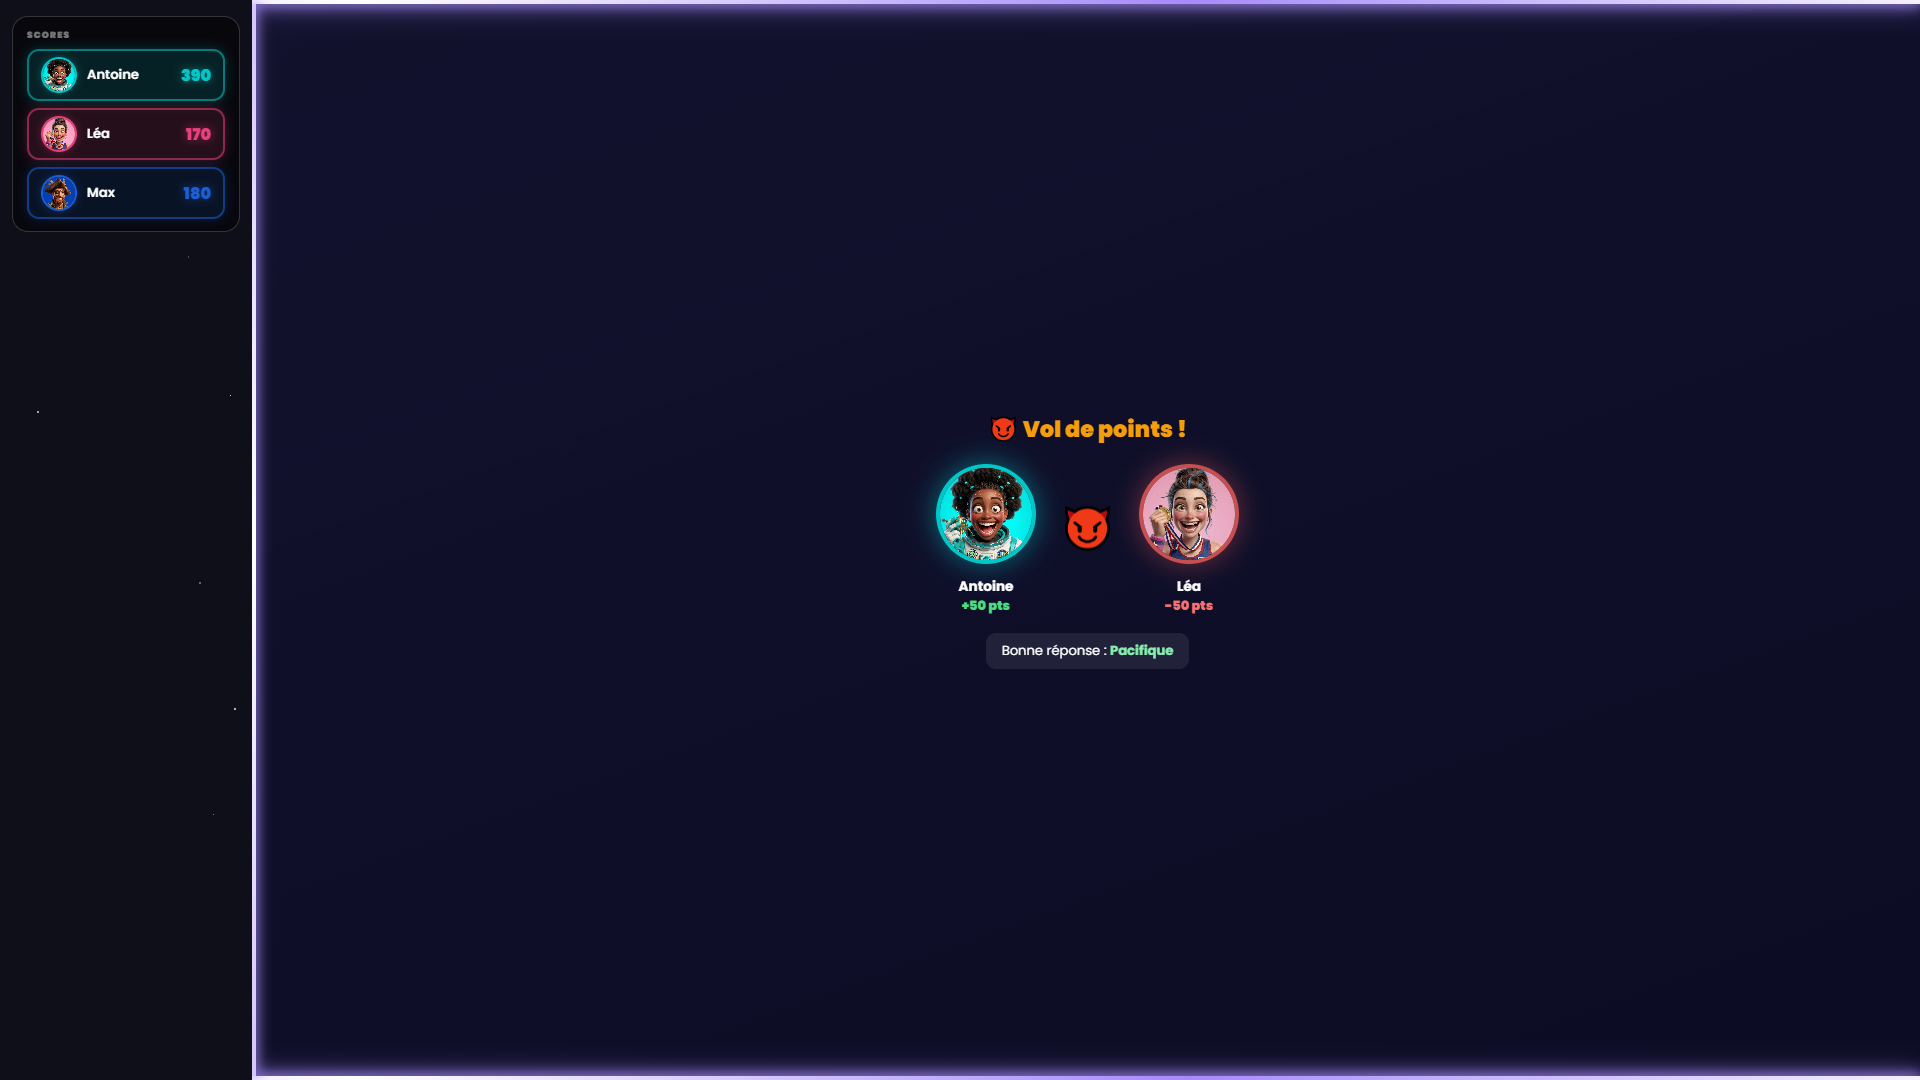
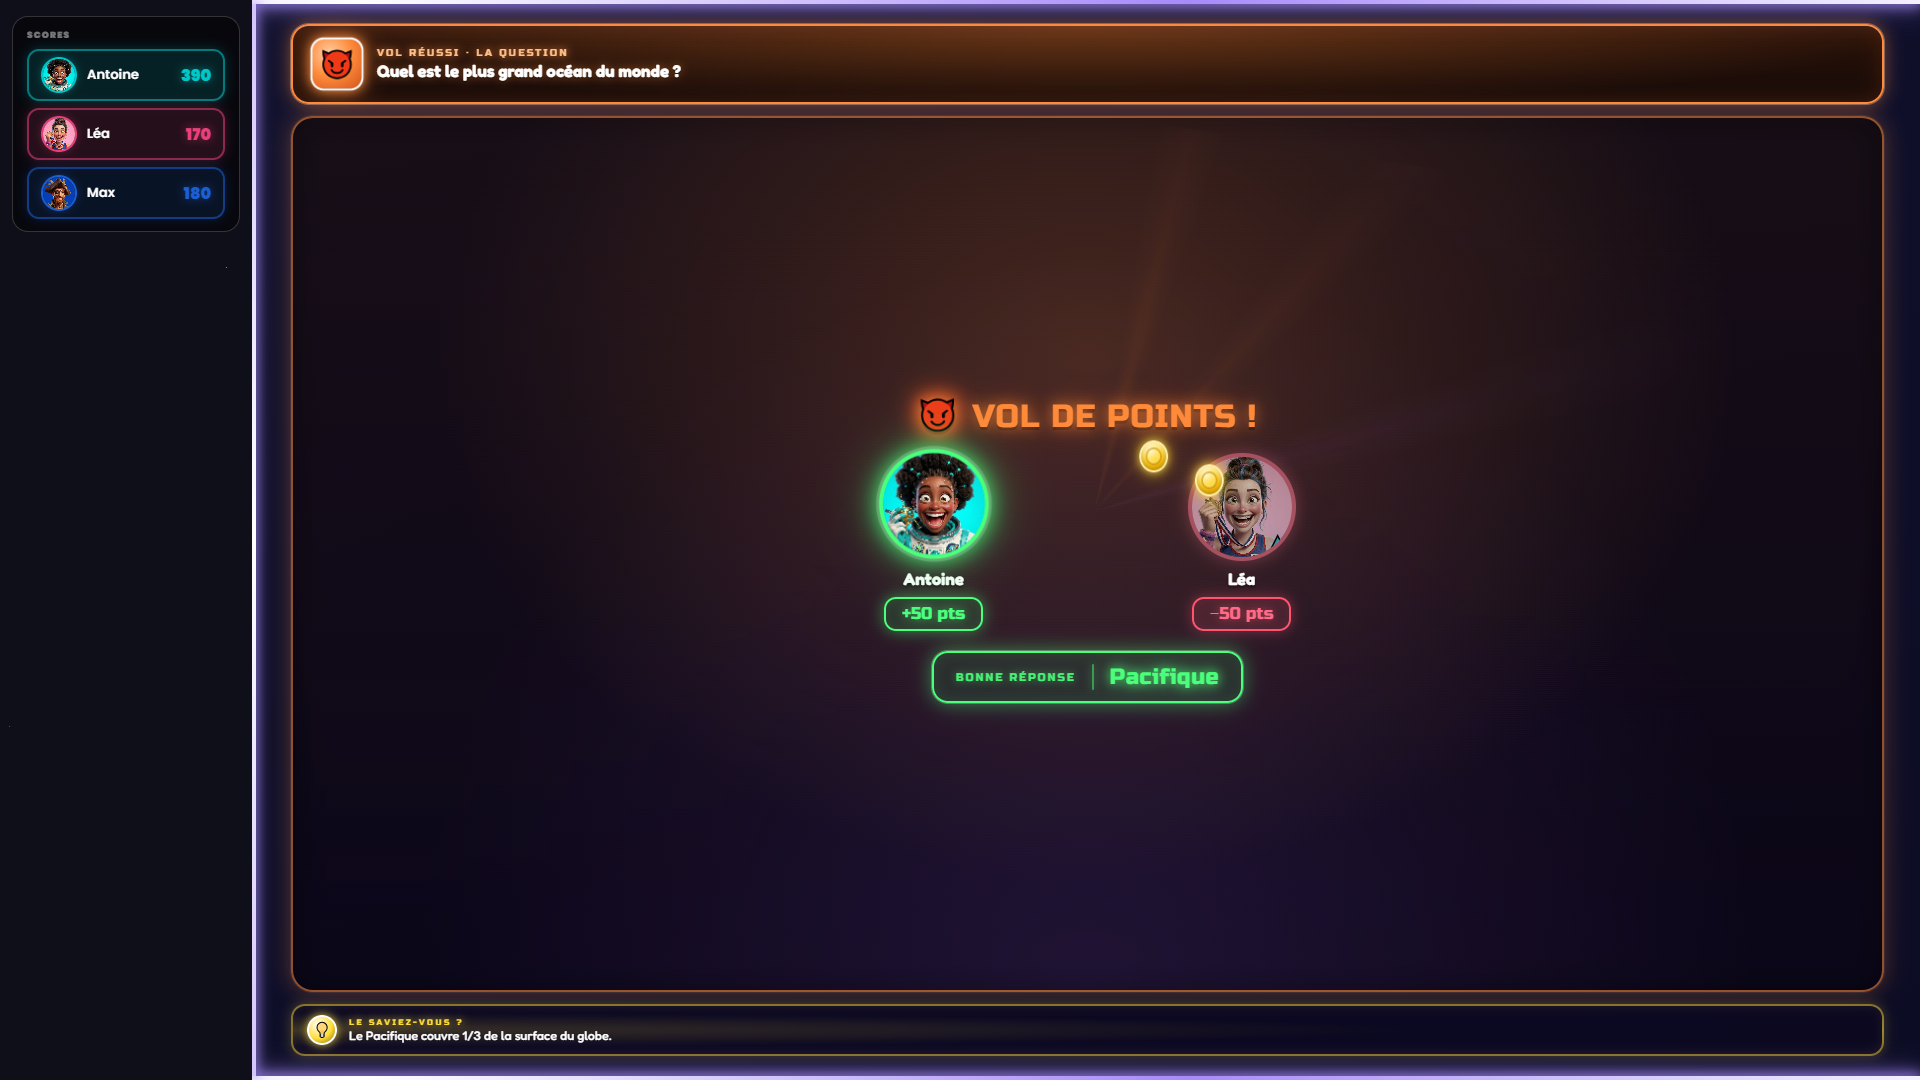
feat(inter-steal): refonte écran 'vol réussi' style néon
Nouveau design orange (devil identity) : headline avec question,
panneau central VOL DE POINTS! avec duel voleur/volé, pièces
animées (Mario coin lob) entre les deux, pastille bonne réponse
verte et fun fact.

diff --git a/css/style.css b/css/style.css
@@ -3191,3 +3191,310 @@ input::placeholder { color:rgba(255,255,255,.3) }
   text-shadow:0 0 10px rgba(255,138,58,.7), 0 2px 0 rgba(0,0,0,.4);
 }
 .pinte-sub-spud { font-size:1.15rem; filter:drop-shadow(0 0 6px rgba(255,138,58,.9)) }
+
+/* ════════════════════════════════════════════════════════════
+   Inter Steal — Vol réussi (14-inter-steal)
+   Identité orange (devil) + duel thief/victim + Mario coin lob
+   ════════════════════════════════════════════════════════════ */
+@keyframes swinEmblemBreathe {
+  0%,100% { transform:scale(1); }
+  50%     { transform:scale(1.05); }
+}
+@keyframes swinRaysSpin { from{transform:rotate(0)} to{transform:rotate(360deg)} }
+@keyframes swinDevilShake {
+  0%,100% { transform:rotate(-6deg) scale(1); }
+  50%     { transform:rotate(6deg) scale(1.08); }
+}
+@keyframes swinThiefPulse {
+  0%,100% { transform:translateY(0) scale(1); }
+  50%     { transform:translateY(-6px) scale(1.03); }
+}
+@keyframes swinCoinArc {
+  0%   { transform:translate(168px, 0);    opacity:0; }
+  8%   { opacity:1; }
+  25%  { transform:translate(84px, -48px); }
+  50%  { transform:translate(0px, -60px); }
+  75%  { transform:translate(-84px, -44px); }
+  92%  { opacity:1; }
+  100% { transform:translate(-168px, 4px); opacity:0; }
+}
+@keyframes swinCoinSpin {
+  0%   { transform:scaleX(1); }
+  25%  { transform:scaleX(.12); }
+  50%  { transform:scaleX(1); }
+  75%  { transform:scaleX(.12); }
+  100% { transform:scaleX(1); }
+}
+
+.swin-wrap {
+  position:relative;
+  width:100%; height:100%;
+  display:flex; flex-direction:column;
+  gap:12px;
+  z-index:1;
+}
+
+.swin-headline {
+  position:relative;
+  padding:12px 18px;
+  border-radius:18px;
+  background:
+    radial-gradient(ellipse at 50% 0%, rgba(255,138,58,.30) 0%, transparent 75%),
+    linear-gradient(180deg, #2a1208 0%, #160a08 100%);
+  border:2px solid #ff8a3a;
+  box-shadow:0 0 0 1px rgba(255,210,170,.35), 0 0 18px rgba(255,138,58,.5), inset 0 0 22px rgba(140,60,20,.3);
+  display:flex; align-items:center; gap:14px;
+  animation:sUp .35s ease both;
+}
+.swin-headline-emblem {
+  width:52px; height:52px; flex-shrink:0;
+  border-radius:13px;
+  border:2.5px solid #fff;
+  background:radial-gradient(circle at 35% 30%, #ffd0a8 0%, #ff8a3a 48%, #d1551e 100%);
+  box-shadow:0 0 12px #ff8a3a, 0 0 24px rgba(255,138,58,.5);
+  display:flex; align-items:center; justify-content:center;
+  font-size:1.6rem;
+  animation:swinEmblemBreathe 2.4s ease-in-out infinite;
+}
+.swin-headline-body { flex:1; min-width:0 }
+.swin-headline-kicker {
+  font-family:'Russo One',sans-serif;
+  font-size:.6rem; letter-spacing:.25em;
+  color:#ffc089;
+  text-shadow:0 0 8px #ff8a3a;
+  margin-bottom:3px;
+}
+.swin-headline-text {
+  font-family:'Fredoka','Poppins',sans-serif;
+  font-weight:700;
+  font-size:1.05rem; line-height:1.15;
+  color:#fff;
+  text-shadow:0 0 10px rgba(255,138,58,.5), 0 2px 0 rgba(0,0,0,.4);
+}
+
+.swin-panel {
+  flex:1; min-height:0;
+  position:relative;
+  border-radius:22px;
+  padding:18px 22px 22px;
+  display:flex; flex-direction:column;
+  align-items:center; justify-content:center;
+  gap:18px;
+  background:
+    radial-gradient(ellipse at 50% 28%, rgba(255,138,58,.22) 0%, transparent 58%),
+    radial-gradient(ellipse at 50% 100%, rgba(185,109,255,.12) 0%, transparent 60%),
+    linear-gradient(180deg, rgba(28,12,8,.6) 0%, rgba(10,4,20,.74) 100%);
+  border:2px solid rgba(255,138,58,.55);
+  box-shadow:0 0 0 1px rgba(255,255,255,.06), 0 0 22px rgba(255,138,58,.32), inset 0 0 30px rgba(0,0,0,.4);
+  overflow:hidden;
+  animation:fadeIn .4s ease both;
+}
+.swin-panel-rays {
+  position:absolute; inset:0;
+  pointer-events:none;
+  background:
+    conic-gradient(from 0deg at 50% 45%,
+      transparent 0deg,
+      rgba(255,138,58,.09) 5deg,
+      transparent 10deg,
+      transparent 28deg,
+      rgba(255,138,58,.07) 33deg,
+      transparent 38deg,
+      transparent 60deg,
+      rgba(185,109,255,.07) 65deg,
+      transparent 70deg);
+  mask:radial-gradient(circle at 50% 45%, #000 0%, transparent 70%);
+  -webkit-mask:radial-gradient(circle at 50% 45%, #000 0%, transparent 70%);
+  animation:swinRaysSpin 22s linear infinite;
+  opacity:.8;
+}
+
+.swin-title {
+  position:relative; z-index:3;
+  display:flex; align-items:center; gap:14px;
+  font-family:'Russo One',sans-serif;
+  font-size:2rem; letter-spacing:.03em;
+  color:#ff8a3a;
+  text-align:center; line-height:1;
+  text-shadow:0 0 14px rgba(255,138,58,.7), 0 0 26px rgba(255,106,26,.55), 0 3px 0 rgba(0,0,0,.4);
+}
+.swin-devil {
+  font-size:1.8rem;
+  filter:drop-shadow(0 0 10px rgba(255,84,40,.9));
+  animation:swinDevilShake 2.6s ease-in-out infinite;
+}
+
+.swin-duel {
+  position:relative; z-index:3;
+  display:flex; align-items:center; justify-content:center;
+  gap:24px;
+  margin-top:2px;
+}
+.swin-duelist {
+  display:flex; flex-direction:column; align-items:center; gap:8px;
+  width:150px;
+}
+.swin-duel-av {
+  position:relative;
+  width:108px; height:108px;
+  border-radius:50%;
+  border:4px solid var(--pc);
+  background:var(--avb);
+  box-shadow:0 0 18px var(--pc), inset 0 0 10px rgba(0,0,0,.4);
+  overflow:hidden;
+}
+.swin-duel-av img { width:100%; height:100%; object-fit:cover; object-position:center top; display:block }
+
+.swin-duelist.thief .swin-duel-av {
+  border-color:#4aff7a;
+  box-shadow:0 0 0 3px rgba(255,255,255,.18), 0 0 22px #4aff7a, 0 0 50px rgba(74,255,122,.6);
+  animation:swinThiefPulse 2.2s ease-in-out infinite;
+}
+.swin-duelist.victim .swin-duel-av {
+  border-color:#ff5470;
+  box-shadow:0 0 18px rgba(255,84,112,.6), inset 0 0 14px rgba(0,0,0,.5);
+  filter:saturate(.6) brightness(.82);
+}
+.swin-tear {
+  position:absolute;
+  bottom:-4px; right:4px;
+  font-size:1.3rem;
+  filter:drop-shadow(0 0 6px rgba(120,180,255,.8));
+  z-index:4;
+}
+
+.swin-duel-name {
+  font-family:'Fredoka','Poppins',sans-serif;
+  font-weight:700; font-size:1.05rem;
+  color:#fff;
+  text-shadow:0 2px 3px rgba(0,0,0,.6);
+}
+.swin-delta {
+  font-family:'Russo One',sans-serif;
+  font-size:1.05rem; line-height:1;
+  padding:7px 16px;
+  border-radius:12px;
+}
+.swin-delta.gain {
+  color:#4aff7a;
+  background:rgba(34,197,94,.14);
+  border:2px solid #4aff7a;
+  box-shadow:0 0 16px rgba(74,255,122,.5), inset 0 0 12px rgba(74,255,122,.12);
+  text-shadow:0 0 12px rgba(74,255,122,.7);
+}
+.swin-delta.loss {
+  color:#ff6a86;
+  background:rgba(255,84,112,.12);
+  border:2px solid #ff5470;
+  box-shadow:0 0 14px rgba(255,84,112,.4), inset 0 0 12px rgba(255,84,112,.1);
+  text-shadow:0 0 10px rgba(255,84,112,.6);
+}
+
+.swin-core {
+  position:relative;
+  width:110px; height:108px;
+  flex-shrink:0;
+}
+.swin-coinflow {
+  position:absolute;
+  top:54px;
+  left:50%;
+  width:0; height:0;
+  pointer-events:none;
+  z-index:6;
+}
+.swin-coin {
+  position:absolute;
+  top:0; left:0;
+  width:0; height:0;
+  opacity:0;
+  animation:swinCoinArc 1.7s cubic-bezier(.45,0,.55,1) infinite;
+}
+.swin-coin-face {
+  position:absolute;
+  top:-16px; left:-16px;
+  width:32px; height:32px;
+  border-radius:50%;
+  background:radial-gradient(circle at 38% 30%, #fff6c8 0%, #ffd83a 40%, #f0b400 72%, #b07d00 100%);
+  border:2.5px solid #fff2b0;
+  box-shadow:
+    0 0 10px rgba(255,216,58,.95),
+    0 0 22px rgba(255,200,30,.6),
+    inset 0 -3px 5px rgba(150,100,0,.45),
+    inset 0 3px 4px rgba(255,255,255,.6);
+  animation:swinCoinSpin .55s linear infinite;
+}
+.swin-coin-face::before {
+  content:'';
+  position:absolute; inset:5px;
+  border-radius:50%;
+  border:2px solid rgba(180,120,0,.45);
+  box-shadow:inset 0 0 5px rgba(255,255,255,.4);
+}
+
+.swin-answer {
+  position:relative; z-index:3;
+  margin-top:2px;
+  align-self:center;
+  display:inline-flex; align-items:center; gap:16px;
+  padding:11px 22px;
+  border-radius:16px;
+  background:rgba(34,197,94,.12);
+  border:2.5px solid #4aff7a;
+  box-shadow:0 0 0 1px rgba(180,255,200,.3), 0 0 20px rgba(74,255,122,.5), inset 0 0 14px rgba(74,255,122,.12);
+}
+.swin-answer-label {
+  font-family:'Russo One',sans-serif;
+  font-size:.68rem; letter-spacing:.18em;
+  color:rgba(74,255,122,.92);
+  text-shadow:0 0 8px rgba(74,255,122,.5);
+  white-space:nowrap;
+}
+.swin-answer-divider {
+  width:2px; height:26px;
+  background:rgba(74,255,122,.5);
+  box-shadow:0 0 8px rgba(74,255,122,.5);
+  border-radius:2px;
+}
+.swin-answer-value {
+  font-family:'Russo One',sans-serif;
+  font-size:1.4rem; letter-spacing:.01em;
+  color:#4aff7a;
+  text-shadow:0 0 12px #4aff7a, 0 0 22px rgba(74,255,122,.5);
+  line-height:1;
+}
+
+.swin-funfact {
+  position:relative;
+  padding:9px 14px;
+  border-radius:14px;
+  background:
+    radial-gradient(ellipse at 0% 50%, rgba(255,222,58,.18) 0%, transparent 50%),
+    rgba(10,5,30,.6);
+  border:2px solid rgba(255,222,58,.5);
+  box-shadow:0 0 12px rgba(255,222,58,.25), inset 0 0 10px rgba(255,222,58,.08);
+  display:flex; align-items:center; gap:12px;
+}
+.swin-funfact-icon {
+  width:30px; height:30px; flex-shrink:0;
+  border-radius:50%;
+  background:radial-gradient(circle at 35% 30%, #fff 0%, #ffde3a 55%, #8a6800 100%);
+  border:2px solid #fff;
+  box-shadow:0 0 10px #ffde3a;
+  display:flex; align-items:center; justify-content:center;
+  font-size:.9rem;
+}
+.swin-funfact-body { flex:1; min-width:0 }
+.swin-funfact-kicker {
+  font-family:'Russo One',sans-serif;
+  font-size:.52rem; letter-spacing:.28em;
+  color:#ffde3a;
+  text-shadow:0 0 8px #ffde3a;
+  margin-bottom:1px;
+}
+.swin-funfact-text {
+  font-family:'Fredoka','Poppins',sans-serif;
+  font-weight:500;
+  font-size:.78rem; line-height:1.25;
+  color:#fff;
+}

diff --git a/js/ui-inter.js b/js/ui-inter.js
@@ -351,26 +351,74 @@ function interSteal(room, gs) {
   const victimName = victimMatch ? victimMatch[1] : null;
   let content;
   if (scorer && victimName) {
+    // ── Vol réussi — design néon orange (devil identity) + duel + coins ──
     const ti = gs.players.indexOf(scorer), vi = gs.players.indexOf(victimName);
     const trp = _rp.find(x=>x.name===scorer), vrp = _rp.find(x=>x.name===victimName);
     const tav = AVATARS[(trp&&trp.avatar!==undefined)?trp.avatar:(ti%AVATARS.length)]||AVATARS[0];
     const vav = AVATARS[(vrp&&vrp.avatar!==undefined)?vrp.avatar:(vi%AVATARS.length)]||AVATARS[0];
-    content = `
-      <div style="font-size:1.4rem;font-weight:800;color:#f59e0b;text-align:center;animation:sUp .3s ease both">😈 Vol de points !</div>
-      <div style="display:flex;align-items:center;gap:24px;justify-content:center">
-        <div style="text-align:center;animation:popIn .4s ease both">
-          <img src="${AVATAR_PATH}${tav.file}" style="width:100px;height:100px;border-radius:50%;object-fit:cover;border:4px solid ${tav.bg};box-shadow:0 0 28px ${tav.bg}88" alt="">
-          <div style="font-size:.85rem;font-weight:700;margin-top:6px">${scorer}</div>
-          <div style="font-size:.8rem;color:#4ade80;font-weight:800">+${stolen} pts</div>
-        </div>
-        <div style="font-size:2.5rem;animation:floatY 1.5s ease-in-out infinite">😈</div>
-        <div style="text-align:center;opacity:.7;animation:popIn .4s ease .1s both">
-          <img src="${AVATAR_PATH}${vav.file}" style="width:100px;height:100px;border-radius:50%;object-fit:cover;border:4px solid #ef4444;box-shadow:0 0 28px #ef444488;filter:grayscale(.3)" alt="">
-          <div style="font-size:.85rem;font-weight:700;margin-top:6px">${victimName}</div>
-          <div style="font-size:.8rem;color:#f87171;font-weight:800">-${stolen} pts</div>
+
+    const headlineHtml = q?.q ? `
+      <div class="swin-headline">
+        <div class="swin-headline-emblem">😈</div>
+        <div class="swin-headline-body">
+          <div class="swin-headline-kicker">VOL RÉUSSI · LA QUESTION</div>
+          <div class="swin-headline-text">${q.q}</div>
         </div>
       </div>
-      ${q?`<div style="padding:8px 16px;border-radius:10px;background:rgba(255,255,255,.08);font-size:.82rem;text-align:center">Bonne réponse : <strong style="color:#86efac">${q.a[q.c]}</strong></div>`:''}
+    ` : '';
+
+    const coinCount = Math.max(5, Math.min(9, Math.round(stolen / 12)));
+    let coinsHtml = '';
+    for (let k = 0; k < coinCount; k++) {
+      const delay = (k * 1.7 / coinCount).toFixed(2);
+      coinsHtml += `<span class="swin-coin" style="animation-delay:${delay}s"><span class="swin-coin-face"></span></span>`;
+    }
+
+    const answerHtml = q ? `
+      <div class="swin-answer">
+        <span class="swin-answer-label">BONNE RÉPONSE</span>
+        <span class="swin-answer-divider"></span>
+        <span class="swin-answer-value">${q.a[q.c]}</span>
+      </div>
+    ` : '';
+
+    const funfactHtml = q?.f ? `
+      <div class="swin-funfact">
+        <div class="swin-funfact-icon">💡</div>
+        <div class="swin-funfact-body">
+          <div class="swin-funfact-kicker">LE SAVIEZ-VOUS ?</div>
+          <div class="swin-funfact-text">${q.f}</div>
+        </div>
+      </div>
+    ` : '';
+
+    content = `
+      <div class="swin-wrap">
+        ${headlineHtml}
+        <div class="swin-panel">
+          <div class="swin-panel-rays"></div>
+          <div class="swin-title">
+            <span class="swin-devil">😈</span>
+            VOL DE POINTS&nbsp;!
+          </div>
+          <div class="swin-duel">
+            <div class="swin-coinflow">${coinsHtml}</div>
+            <div class="swin-duelist thief" style="--pc:${tav.bg};--avb:${tav.bg}">
+              <div class="swin-duel-av"><img src="${AVATAR_PATH}${tav.file}" alt=""></div>
+              <div class="swin-duel-name">${scorer}</div>
+              <div class="swin-delta gain">+${stolen} pts</div>
+            </div>
+            <div class="swin-core"></div>
+            <div class="swin-duelist victim" style="--pc:${vav.bg};--avb:${vav.bg}">
+              <div class="swin-duel-av"><img src="${AVATAR_PATH}${vav.file}" alt=""><span class="swin-tear">💧</span></div>
+              <div class="swin-duel-name">${victimName}</div>
+              <div class="swin-delta loss">−${stolen} pts</div>
+            </div>
+          </div>
+          ${answerHtml}
+        </div>
+        ${funfactHtml}
+      </div>
     `;
   } else {
     // ── Personne n'a trouvé (ou timeout) — design néon rouge/violet ──
